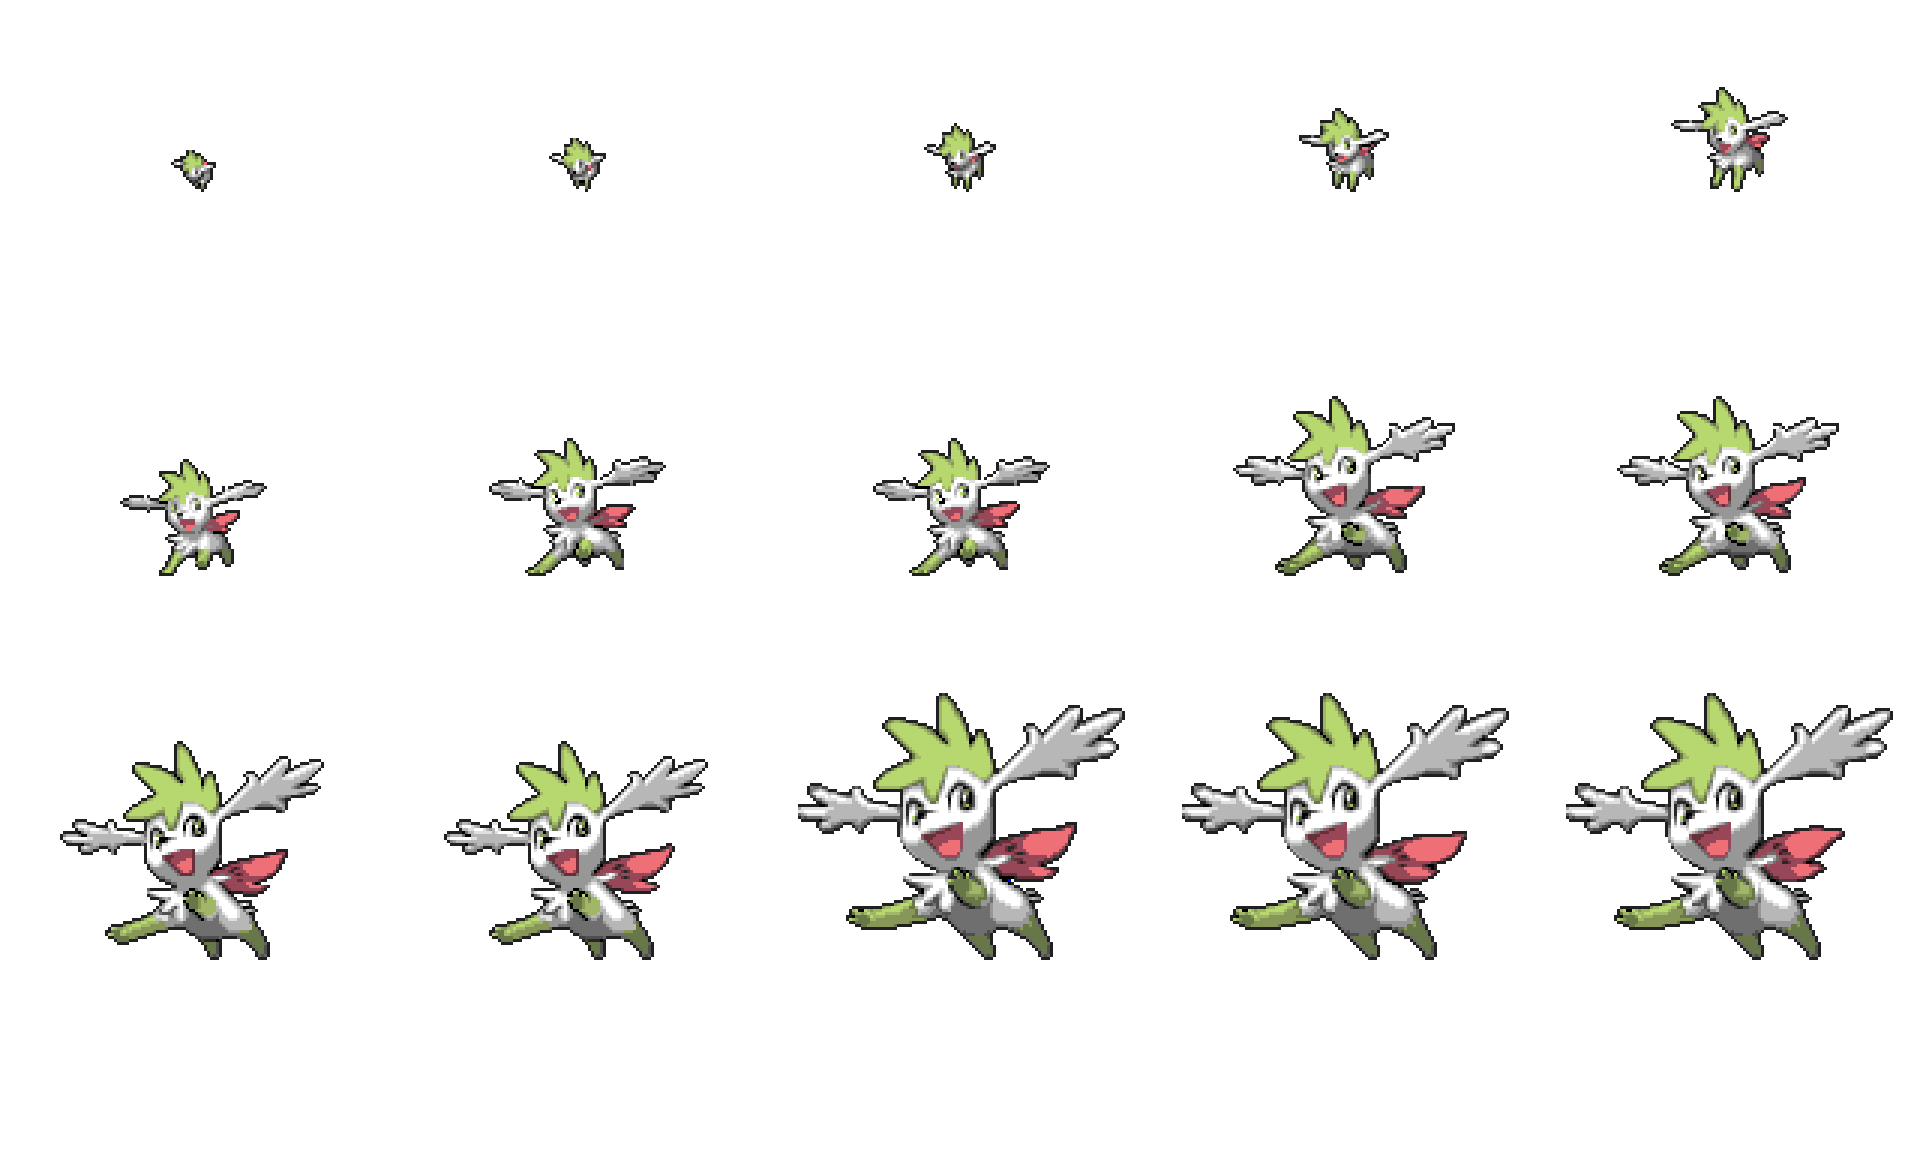
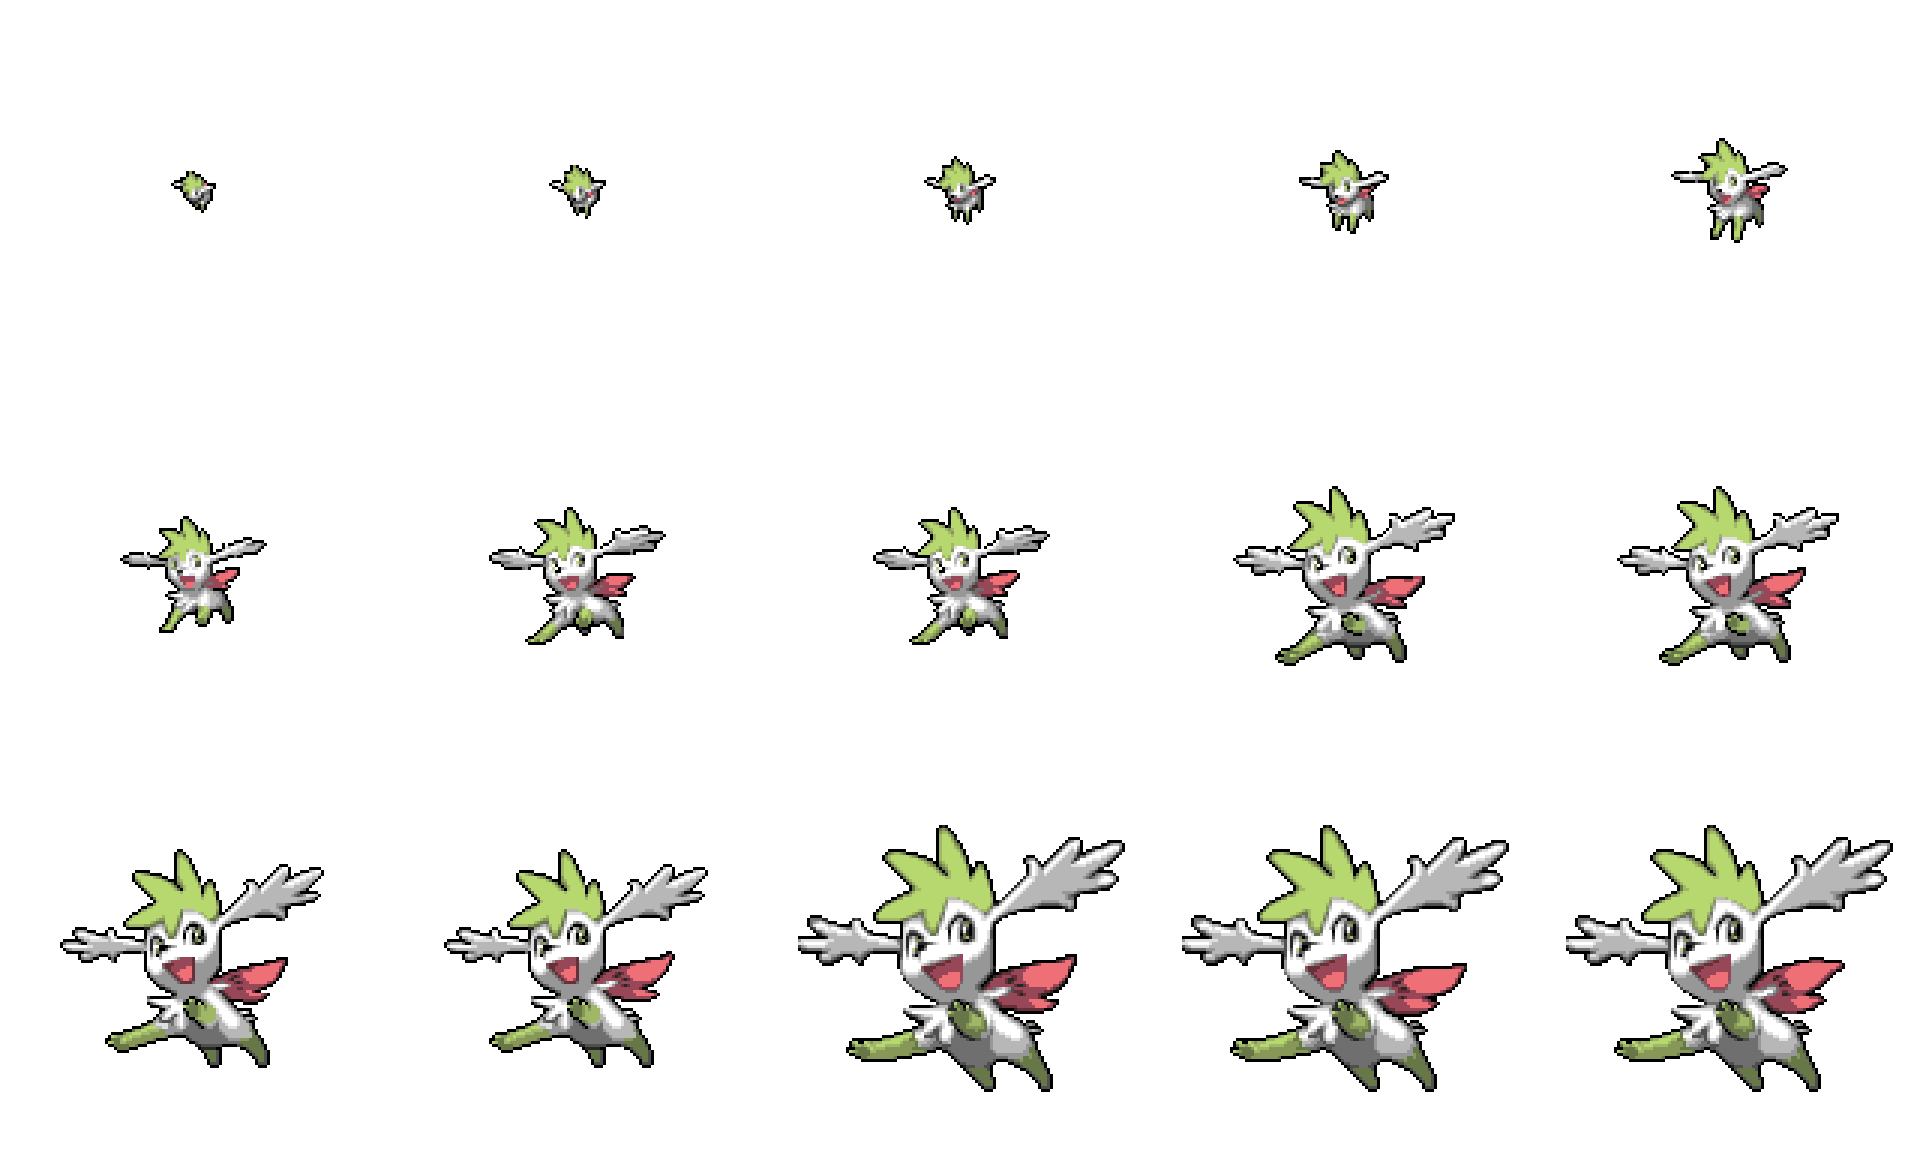
타이틀 50퍼센트 완료

diff --git a/Window_Game/EngineContents/TitleActor.cpp b/Window_Game/EngineContents/TitleActor.cpp
@@ -1,16 +1,21 @@
 #include "PreCompile.h"
 #include "TitleActor.h"
+#include "ContentsEnum.h"
+#include "TitleAnimActor.h"
+
 #include <EnginePlatform/EngineInput.h>
 #include <EngineCore/EngineAPICore.h>
+#include <EngineCore/SpriteRenderer.h>
 
 
 
 ATitleActor::ATitleActor()
 {
-	FVector2D winSize = UEngineAPICore::GetCore()->GetMainWindow().GetWindowSize();
-	SetActorLocation({ winSize.Half() });
-	SetActorScale(winSize);
-	
+	SpriteRenderer = CreateDefaultSubObject<USpriteRenderer>();
+	SpriteRenderer->SetOrder(ERenderOrder::BACKGROUND);
+	SpriteRenderer->SetSprite("1.Intro_Bg.png");
+	FVector2D TitleScale = SpriteRenderer->SetSpriteScale();
+	SpriteRenderer->SetComponentLocation(TitleScale.Half());
 }
 
 ATitleActor::~ATitleActor() {}
@@ -18,14 +23,36 @@ ATitleActor::~ATitleActor() {}
 void ATitleActor::BeginPlay()
 {
 	Super::BeginPlay();
+	GetWorld()->SetCameraToMainPawn(false);
+
 }
 
 void ATitleActor::Tick(float _DeltaTime)
 {
+	test += _DeltaTime;
 	Super::Tick(_DeltaTime);
-	if (true == UEngineInput::GetInst().IsPress('D')) {
-		int a = 0;
-		UEngineAPICore::GetCore()->OpenLevel("TempLevel");
 
+	if (test > 4.3f)
+	{
+		return;
 	}
+	else if (test > 2.0f) 
+	{
+		AddActorLocation(FVector2D::UP * _DeltaTime * 500.f);
+	}
+
+	if (test > 3.0f) 
+	{
+		if (!IsPlayAnim) {
+
+		ATitleAnimActor* NewActor = GetWorld()->SpawnActor<ATitleAnimActor>();
+		IsPlayAnim = true;
+		}
+	}
+
+}
+
+void ATitleActor::ChangeBg()
+{
+	SpriteRenderer->SetSprite("2.Title_Text.png");
 }

diff --git a/Window_Game/EngineContents/TitleAnimActor.cpp b/Window_Game/EngineContents/TitleAnimActor.cpp
@@ -1,0 +1,50 @@
+#include "PreCompile.h"
+#include "TitleAnimActor.h"
+#include "TitleActor.h"
+
+#include <EngineCore/EngineSprite.h>
+#include <EngineCore/ImageManager.h>
+#include <EngineCore/SpriteRenderer.h>
+
+
+
+ATitleAnimActor::ATitleAnimActor()
+{
+	SpriteRenderer = CreateDefaultSubObject<USpriteRenderer>();
+	SpriteRenderer->SetOrder(ERenderOrder::PLAYER);
+	SpriteRenderer->SetSprite("1.Intro_anim.png");
+	SpriteRenderer->SetComponentScale(SpriteRenderer->GetComponentScale());
+	SpriteRenderer->CreateAnimation("IntroAnim", "1.Intro_Anim.png", 0, 14, 0.1f, false);
+	FVector2D TitleScale = SpriteRenderer->SetSpriteScale();
+	SpriteRenderer->SetComponentLocation(TitleScale.Half());
+}
+ATitleAnimActor::~ATitleAnimActor()
+{
+
+}
+
+void ATitleAnimActor::BeginPlay()
+{
+	SetActorLocation({ 300,300 });
+}
+
+void ATitleAnimActor::Tick(float _DeltaTime)
+{
+	test += _DeltaTime;
+	Super::Tick(_DeltaTime);
+	SpriteRenderer->ChangeAnimation("IntroAnim");
+	if (test < 1.0f)
+	{
+		AddActorLocation(FVector2D::RIGHT * _DeltaTime * 200.f);
+
+	}
+	else if (test > 1.0f && test < 1.5f)
+	{
+		AddActorLocation(FVector2D::LEFT * _DeltaTime * 800.f);
+		AddActorLocation(FVector2D::UP * _DeltaTime * 300.f);
+	}
+
+
+
+
+}

diff --git a/Window_Game/EngineBase/EngineDelegate.h b/Window_Game/EngineBase/EngineDelegate.h
@@ -11,15 +11,7 @@ public:
 	{
 		Functions.push_back(_Function);
 	}
-
 	~EngineDelegate();
-
-	// delete Function
-	//EngineDelegate(const EngineDelegate& _Other) = delete;
-	//EngineDelegate(EngineDelegate&& _Other) noexcept = delete;
-	//EngineDelegate& operator=(const EngineDelegate& _Other) = delete;
-	//EngineDelegate& operator=(EngineDelegate&& _Other) noexcept = delete;
-
 	bool IsBind()
 	{
 		return false == Functions.empty();
@@ -41,7 +33,6 @@ public:
 			Function();
 		}
 	}
-
 	void Clear()
 	{
 		Functions.clear();

diff --git a/Window_Game/EngineCore/Level.cpp b/Window_Game/EngineCore/Level.cpp
@@ -14,12 +14,6 @@ ULevel::ULevel()
 
 ULevel::~ULevel()
 {
-	//if (nullptr != GameMode)
-	//{
-	//	delete GameMode;
-	//	GameMode = nullptr;
-	//}
-
 	std::list<AActor*>::iterator StartIter = AllActors.begin();
 	std::list<AActor*>::iterator EndIter = AllActors.end();
 
@@ -46,10 +40,7 @@ void ULevel::Tick(float _DeltaTime)
 			CurActor->BeginPlay();
 			AllActors.push_back(CurActor);
 		}
-
 		BeginPlayList.clear();
-
-		// todtjdtl 
 		AActor::ComponentBeginPlay();
 	}
 

diff --git a/Window_Game/EngineContents/TitleGameMode.cpp b/Window_Game/EngineContents/TitleGameMode.cpp
@@ -1,8 +1,28 @@
 #include "PreCompile.h"
 #include "TitleGameMode.h"
 
+#include "TitleAnimActor.h"
+
+#include <EngineBase/EngineDirectory.h>
+#include <EngineCore/EngineAPICore.h>
+#include <EngineCore/ImageManager.h>
 
 
-ATitleGameMode::ATitleGameMode() {}
 
-ATitleGameMode::~ATitleGameMode() {}
+ATitleGameMode::ATitleGameMode()
+{
+	
+}
+
+ATitleGameMode::~ATitleGameMode()
+{
+
+}
+
+void ATitleGameMode::BeginPlay()
+{
+	
+	
+
+
+}

diff --git a/Window_Game/EngineContents/TitleGameMode.h b/Window_Game/EngineContents/TitleGameMode.h
@@ -14,6 +14,8 @@ public:
 	ATitleGameMode& operator=(const ATitleGameMode& _Other) = delete;
 	ATitleGameMode& operator=(ATitleGameMode&& _Other) noexcept = delete;
 
+	void BeginPlay() override;
+
 protected:
 
 private:

diff --git a/Window_Game/EngineContents/PreCompile.h b/Window_Game/EngineContents/PreCompile.h
@@ -2,3 +2,4 @@
 
 #include <EngineCore/PreCompile.h>
 #include "ContentsDefine.h"
+#include "ContentsEnum.h"

diff --git a/Window_Game/EngineContents/ContentsEnum.h b/Window_Game/EngineContents/ContentsEnum.h
@@ -3,6 +3,7 @@
 
 enum class ERenderOrder
 {
-	BACKGROUND = -1000,
+	BACKGROUND = -10,
+
 	PLAYER = 0,
 };
